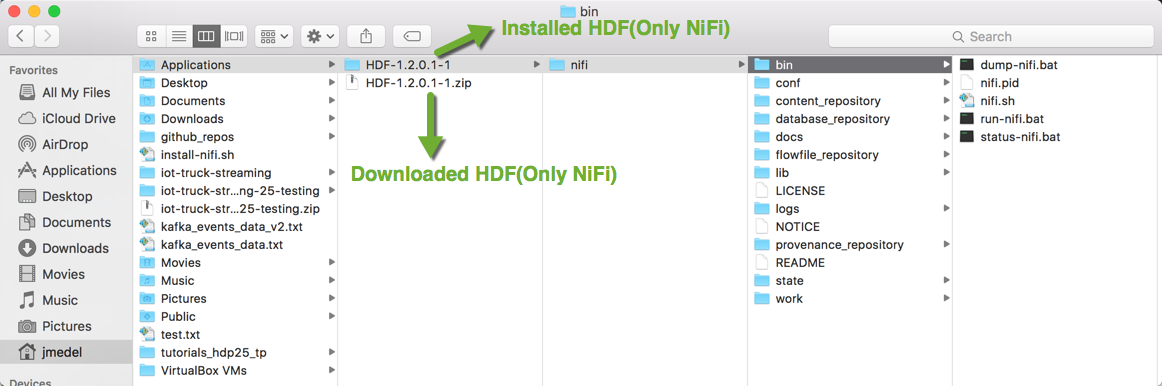
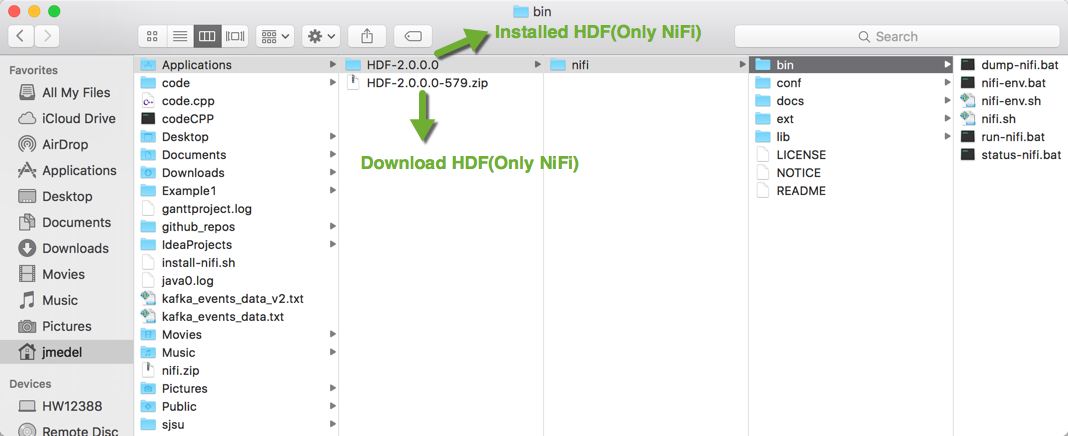
update tutorial 0
- added new images for the download and instal nifi for local machine
- updated instructions in step3

diff --git a/tutorials/hortonworks/learning-ropes-apache-nifi-tutorial-series/learning-ropes-nifi-tutorial0.md b/tutorials/hortonworks/learning-ropes-apache-nifi-tutorial-series/learning-ropes-nifi-tutorial0.md
@@ -173,7 +173,7 @@ Choose the NiFi service:
 
 ### Step 3: Download and Install NiFi on Local Machine (Option 2) <a id="download-nifi-machine"></a>
 
-1\. Open a browser. Download NiFi from [HDF Downloads Page](http://hortonworks.com/downloads/). You will see two HDF download links, both include HDF that only comes with NiFi packaged. There are two package options: one for HDF TAR.GZ file tailored to Linux and zip file more compatible with Windows. Mac can use either option. In this tutorial section, download the zip on a Mac:
+1\. Open a browser. Download NiFi from [HDF Downloads Page](http://hortonworks.com/downloads/). You will see four HDF download links. We will download the **NiFi only** option. There are two package options: one for HDF TAR.GZ file tailored to Linux and zip file more compatible with Windows. Mac can use either option. In this tutorial section, download the zip on a Mac:
 
 ![download_hdf_iot](/assets/learning-ropes-nifi-lab-series/lab0-download-install-start-nifi/download-hdf-learn-ropes-nifi.png)
 
